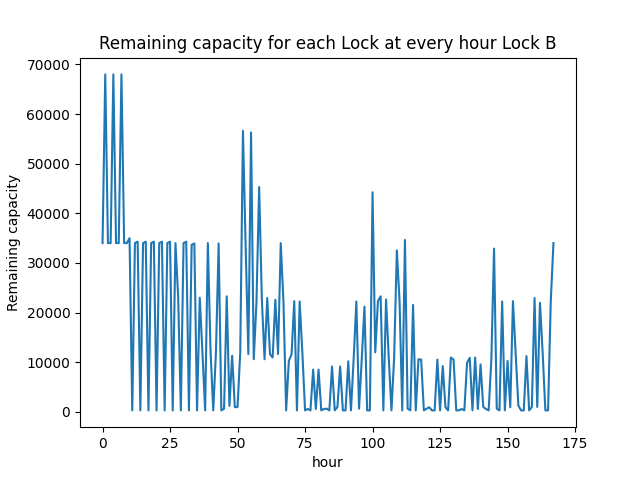
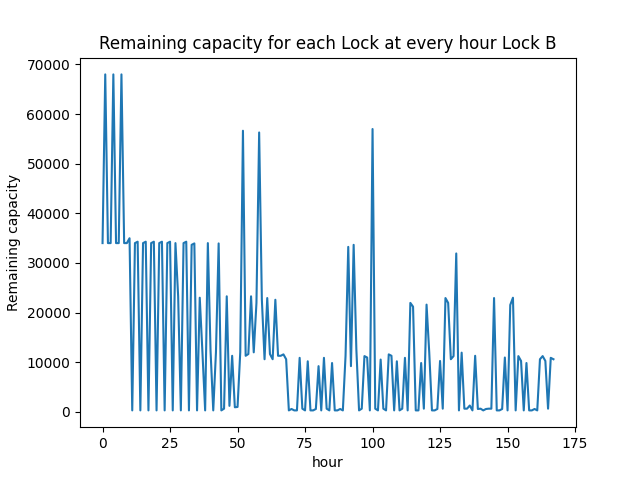
cleanup dock.py plus re run of  tasks

Changed region(s): [[0.375, 0.2812, 0.875, 0.875], [0.5625, 0.2812, 0.5938, 0.4688]]

diff --git a/model/atomic_devs/dock.py b/model/atomic_devs/dock.py
@@ -1,6 +1,6 @@
 from pypdevs.DEVS import AtomicDEVS
 import numpy as np
-from messages_events import port_events as Messages
+from messages_events import port_events
 
 
 # Define the state of the AnchorPoint as a structured object
@@ -9,15 +9,15 @@ class DockState:
         # Keep track of current time and received vessels
         self.remaining_time = float('inf')
         self.quay_id = quay_id
+        # does it need to be deterministic
         self.det_bool = det_bool
 
+        # vessels in the dock with remaining time as value
         self.vessels = {}
         self.leaving = []
 
         # List of request to send
         self.requests = []
-        self.activate = False
-        self.counter = 0
         self.current_time = 0
 
 
@@ -25,10 +25,10 @@ class Dock(AtomicDEVS):
     def __init__(self, quay_id, det_bool=False):
         AtomicDEVS.__init__(self, "Dock")
         self.state = DockState(quay_id, det_bool)
-
+        # in and out port for vessels
         self.in_port = self.addInPort("in_port")
         self.out_port = self.addOutPort("out_port")
-
+        # in and out ports for messeges
         self.in_event = self.addInPort("in_event")
         self.out_event = self.addOutPort("out_event")
 
@@ -40,7 +40,7 @@ class Dock(AtomicDEVS):
 
             #  if the vessel is leaving the dock, add it to the leaving list
             if self.state.vessels[vessel] <= 0:
-                request = Messages.portDepartureRequests(vessel.vessel_id, vessel.destination)
+                request = port_events.portDepartureRequests(vessel.vessel_id, vessel.destination)
                 vessel.destination = "S"
                 self.state.leaving.append(vessel)
                 self.state.requests.append(request)
@@ -61,10 +61,12 @@ class Dock(AtomicDEVS):
         # add a new vessel in dock if possible
         if self.in_port in inputs:
             for vessel in inputs[self.in_port]:
+                #  if detereministic: set wait_time on average (36)
                 if self.state.det_bool:
                     wait_time = 36
                 else:
                     wait_time = np.random.normal(36,12)
+                # make sure the minimal waiting time is 0
                 if wait_time < 6:
                     wait_time = 6
                 self.state.vessels[vessel] = wait_time
@@ -79,6 +81,7 @@ class Dock(AtomicDEVS):
         if len(self.state.vessels.keys()) > 0:
             self.state.remaining_time = min(self.state.vessels.values())
 
+        # if a vessels needs to leave: no delay
         if len(self.state.requests) > 0 or len(self.state.leaving) > 0:
             self.state.remaining_time = 0
 
